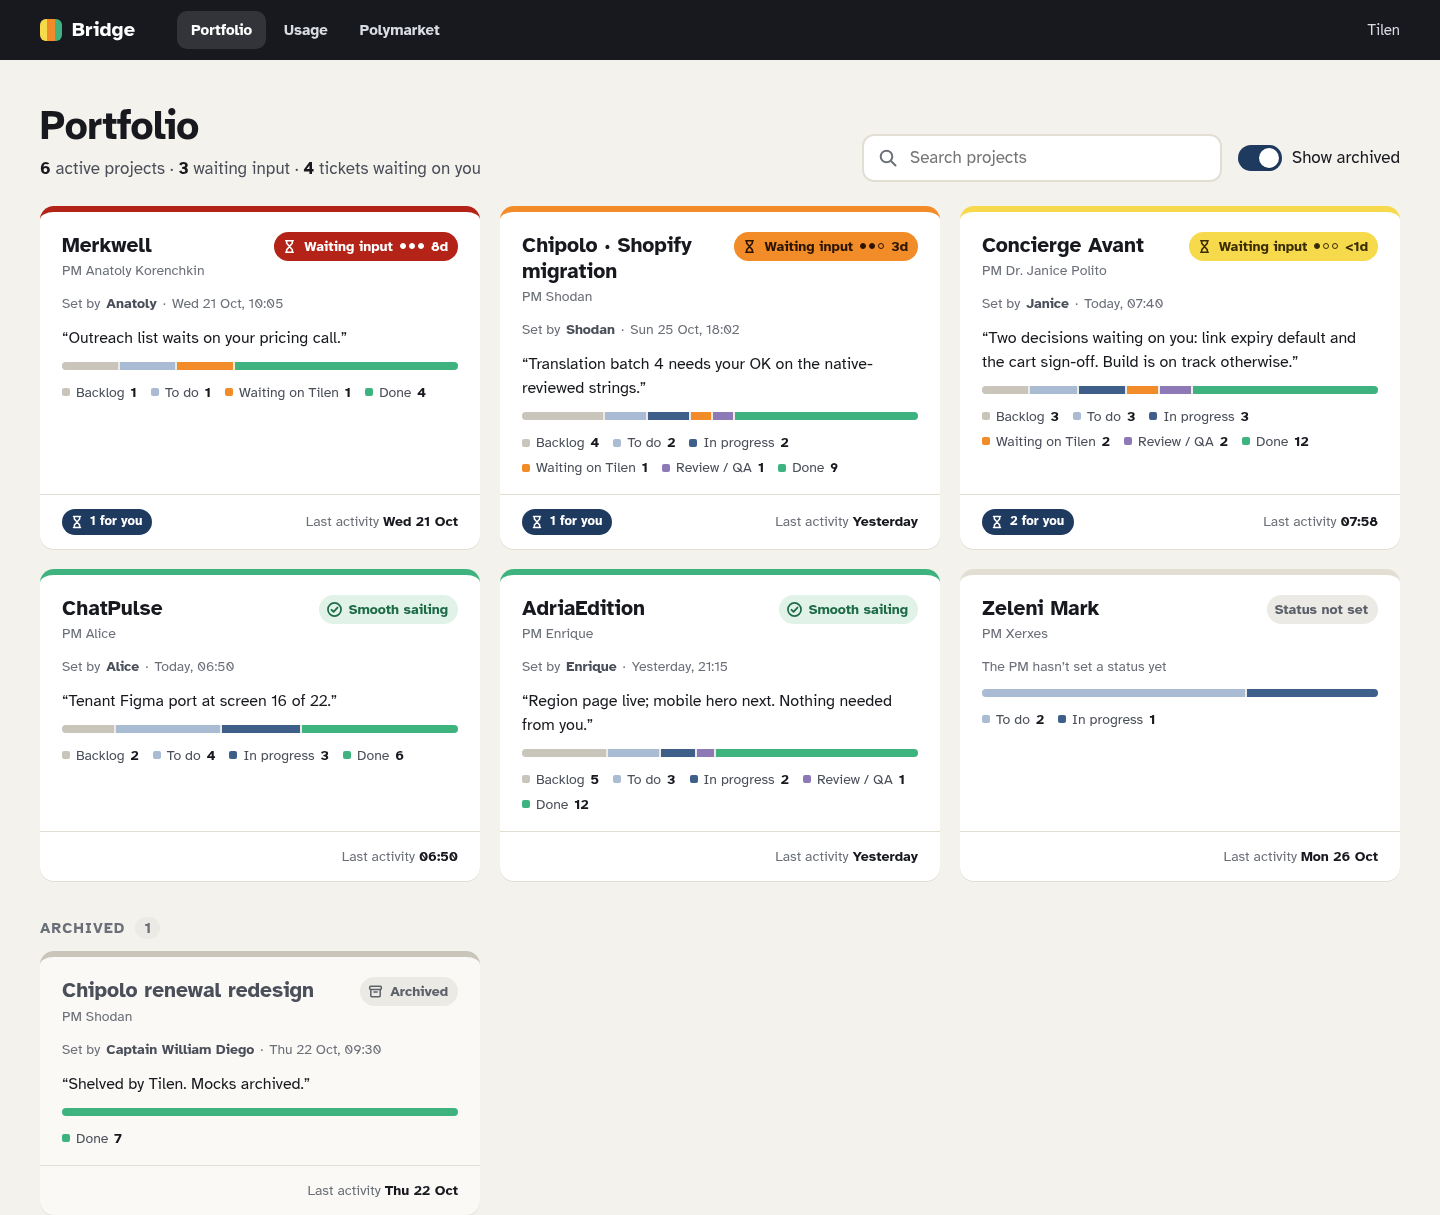
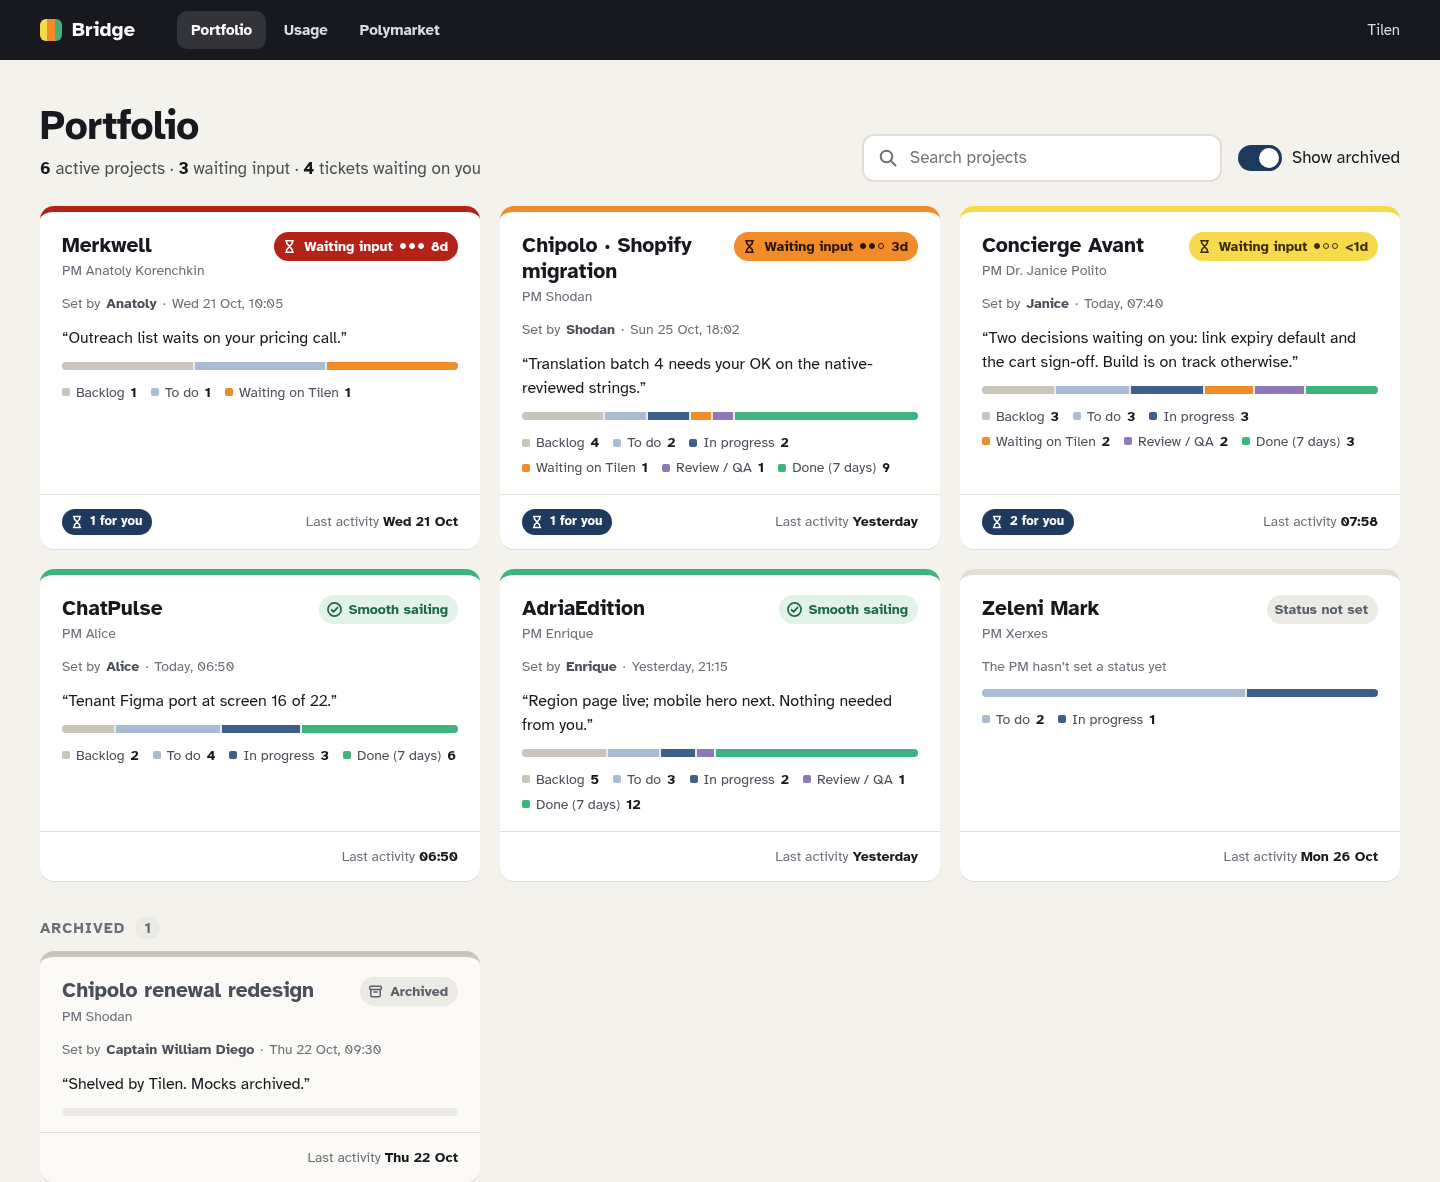
Tickets: fixed CA/MW prefixes, non-Tilen inputs to In progress; Move sheet copy, Done (7 days) counts; reshoot affected shots

diff --git a/resources/js/Components/Kanban/MoveSheet.tsx b/resources/js/Components/Kanban/MoveSheet.tsx
@@ -2,7 +2,7 @@ import { useRef, useState } from 'react';
 import { Sheet, useFocusTrap } from './Bits';
 import { WAITING, type Column, type ColumnKey, type Ticket } from '../../lib/kanban';
 
-/** Mobile "Move to" sheet (SPEC §4): six 52px rows, the current one marked, the ticket goes to the top of the target. */
+/** Mobile "Move to" sheet (SPEC §4): six 52px rows, the current one marked, the ticket goes to the top of the target (Waiting on Tilen: the end, oldest first). */
 export function MoveSheet({ t, columns, onPick, onClose }: { t: Ticket; columns: Column[]; onPick: (to: ColumnKey) => void; onClose: () => void }) {
   return (
     <Sheet label={`Move ${t.key}`} onClose={onClose}>
@@ -15,7 +15,7 @@ export function MoveSheet({ t, columns, onPick, onClose }: { t: Ticket; columns:
             <li key={c.key} aria-current={cur ? 'true' : undefined}>
               <button type="button" onClick={() => (cur ? onClose() : onPick(c.key))}>
                 <span className={`dot c-${c.key}`} aria-hidden="true" />{c.label}
-                {cur ? <span className="cur">Current</span> : c.key === WAITING ? <span className="pos">Oldest first</span> : null}
+                {cur ? <span className="cur">Current</span> : <span className="pos">{c.key === WAITING ? 'Goes to the end, sorted oldest first' : 'Top of column'}</span>}
               </button>
             </li>
           );

diff --git a/resources/js/Pages/Portfolio.tsx b/resources/js/Pages/Portfolio.tsx
@@ -10,7 +10,7 @@ import { firstName, type ColumnKey, type PortfolioProject } from '../lib/kanban'
 type Props = { projects: PortfolioProject[]; now: string };
 
 const COLS: [ColumnKey, string][] = [
-  ['backlog', 'Backlog'], ['todo', 'To do'], ['in_progress', 'In progress'], ['waiting_tilen', 'Waiting on Tilen'], ['review', 'Review / QA'], ['done', 'Done'],
+  ['backlog', 'Backlog'], ['todo', 'To do'], ['in_progress', 'In progress'], ['waiting_tilen', 'Waiting on Tilen'], ['review', 'Review / QA'], ['done', 'Done (7 days)'],
 ];
 
 function rule(p: PortfolioProject): string {

diff --git a/tests/Feature/TicketsMigrationTest.php b/tests/Feature/TicketsMigrationTest.php
@@ -22,7 +22,7 @@ class TicketsMigrationTest extends TestCase
     use RefreshDatabase;
     use TicketHelpers;
 
-    private const TOTAL = 'total: questions open 1, answered 2, inputs 2, next steps 4 → tickets 9 (waiting_tilen 6, todo 1, in_progress 2) · skipped 0';
+    private const TOTAL = 'total: questions open 1, answered 2, inputs 2, next steps 4 → tickets 9 (waiting_tilen 5, todo 1, in_progress 3) · skipped 0';
 
     private string $long;
 
@@ -77,7 +77,7 @@ class TicketsMigrationTest extends TestCase
     {
         $before = $this->legacy();
         $this->artisan('bridge:tickets-migrate --dry-run')
-            ->expectsOutputToContain('Concierge Avant ('.self::CA.'): dry run, nothing written · would be: questions open 1, answered 2, inputs 2, next steps 0 → tickets 5 (waiting_tilen 5, todo 0, in_progress 0) · skipped 0')
+            ->expectsOutputToContain('Concierge Avant ('.self::CA.'): dry run, nothing written · would be: questions open 1, answered 2, inputs 2, next steps 0 → tickets 5 (waiting_tilen 4, todo 0, in_progress 1) · skipped 0')
             ->expectsOutputToContain('total: dry run, nothing written · would be: questions open 1, answered 2, inputs 2, next steps 4 → tickets 9')
             ->assertSuccessful();
         $this->assertSame(0, Ticket::count());
@@ -136,6 +136,8 @@ class TicketsMigrationTest extends TestCase
         $this->assertStringContainsString('_Carried over from Required inputs (waiting on Tilen, since 8 Sep 2026)._', $i1->description);
         $this->assertSame('2026-09-08 15:00:00', $i1->waiting_since->format('Y-m-d H:i:s'));
         $this->assertSame(['input', 'waiting-on-other'], $this->byRow('required_input', 'in-ca-2')->labels->pluck('name')->all());
+        $i2 = $this->byRow('required_input', 'in-ca-2'); // not Tilen's: In progress, assigned to that person, no ask
+        $this->assertSame(['in_progress', 'human', 'Copywriter', null, null], [$i2->status, $i2->assignee_type, $i2->assignee_id, $i2->ask, $i2->waiting_since]);
 
         // Next steps.
         $n1 = $this->byRow('next_step', 'ns-1');
@@ -148,7 +150,7 @@ class TicketsMigrationTest extends TestCase
         $n5 = $this->byRow('next_step', 'ns-5');
         $this->assertSame(['agent', self::ANATOLY], [$n5->assignee_type, $n5->assignee_id]); // falls back to the PM
         $this->assertSame([0, 1], [$n1->position, $n5->position]);
-        $this->assertSame(['ME-1', 'ME-2', 'ME-3', 'ME-4'], Ticket::query()->where('project_id', self::MW)->orderBy('key')->pluck('key')->all());
+        $this->assertSame(['MW-1', 'MW-2', 'MW-3', 'MW-4'], Ticket::query()->where('project_id', self::MW)->orderBy('key')->pluck('key')->all());
 
         // Events: created by migration via api.
         $this->assertSame(9, TicketEvent::query()->where('type', 'created')->where('actor_id', 'migration')->where('actor_type', 'system')->where('source', 'api')->count());
@@ -181,7 +183,7 @@ class TicketsMigrationTest extends TestCase
             ->assertSuccessful();
         $this->artisan('bridge:tickets-migrate')->expectsOutputToContain('· skipped 10')->assertSuccessful();
         $this->assertSame(10, Ticket::count());
-        $this->assertSame('ME-5', $this->byRow('question', 'q-new')->key);
+        $this->assertSame('MW-5', $this->byRow('question', 'q-new')->key);
         $this->assertSame([self::ANATOLY, 'agent'], [$this->byRow('question', 'q-new')->created_by, $this->byRow('question', 'q-new')->created_by_type]);
 
         $this->artisan('bridge:tickets-migrate --project=proj-nope')->expectsOutputToContain('Unknown project id')->assertFailed();
@@ -245,5 +247,16 @@ class TicketsMigrationTest extends TestCase
 
         $t = $this->byRow('next_step', 'ns-owner');
         $this->assertSame(['agent', BridgeSeeder::AGENT_SHODAN], [$t->assignee_type, $t->assignee_id]);
+    }
+
+    public function test_input_waiting_on_an_agent_goes_to_in_progress_with_that_agent(): void
+    {
+        RequiredInput::create(['id' => 'in-janice', 'project_id' => self::CA, 'text' => 'Janice confirms the guest copy', 'waiting_on' => 'Janice', 'since' => '2026-10-20 10:00:00']);
+
+        $this->artisan('bridge:tickets-migrate', ['--project' => self::CA])->assertSuccessful();
+
+        $t = $this->byRow('required_input', 'in-janice');
+        $this->assertSame(['in_progress', 'agent', self::JANICE], [$t->status, $t->assignee_type, $t->assignee_id]);
+        $this->assertSame(['input', 'waiting-on-other'], $t->labels->pluck('name')->all());
     }
 }

diff --git a/tests/Feature/TicketsApiTest.php b/tests/Feature/TicketsApiTest.php
@@ -63,7 +63,7 @@ class TicketsApiTest extends TestCase
     public function prefixes_come_from_the_name_and_are_unique(): void
     {
         $this->assertSame('CA', Project::find(self::CA)->ticket_prefix);
-        $this->assertSame('ME', Project::find(self::MW)->ticket_prefix);
+        $this->assertSame('MW', Project::find(self::MW)->ticket_prefix); // fixed in TicketPrefix::MAP
         $this->assertSame('CA', TicketPrefix::generate('Concierge Avant'));
         $this->assertSame('CAV', TicketPrefix::generate('Concierge Avant', ['CA']));
         $this->assertSame('ME', TicketPrefix::generate('merkwell'));
@@ -71,12 +71,17 @@ class TicketsApiTest extends TestCase
         $this->assertSame('ZA', TicketPrefix::generate('Žabja Akademija'));
         $this->assertSame('P', TicketPrefix::generate('123'));
         $this->assertSame('X2', TicketPrefix::generate('X', ['X']));
+        // Captain's fixed map wins for those ids; the reserved prefixes are never generated for other projects.
+        $this->assertSame('CA', TicketPrefix::forProject('proj-concierge-avant', 'Concierge'));
+        $this->assertSame('MW', TicketPrefix::forProject('proj-merkwell', 'Merkwell'));
+        $this->assertSame('CO', TicketPrefix::forProject('proj-other', 'Concierge'));
+        $this->assertSame('CAV', TicketPrefix::forProject('proj-other', 'Concierge Avant'));
 
         // Created via the API: same generator, optional explicit prefix.
         $this->api()->postJson('/api/projects', ['name' => 'Concierge Atlas', 'slug' => 'concierge-atlas', 'owner_agent_id' => self::JANICE])
             ->assertCreated()->assertJsonPath('data.ticket_prefix', 'CAT');
-        $this->postJson('/api/projects', ['name' => 'Merkwell Two', 'slug' => 'mw2', 'owner_agent_id' => self::ANATOLY, 'ticket_prefix' => 'MW'])
-            ->assertCreated()->assertJsonPath('data.ticket_prefix', 'MW');
+        $this->postJson('/api/projects', ['name' => 'Merkwell Two', 'slug' => 'mw2', 'owner_agent_id' => self::ANATOLY, 'ticket_prefix' => 'MV'])
+            ->assertCreated()->assertJsonPath('data.ticket_prefix', 'MV');
         $this->postJson('/api/projects', ['name' => 'X', 'slug' => 'x', 'owner_agent_id' => self::ANATOLY, 'ticket_prefix' => 'MW'])
             ->assertUnprocessable()->assertJsonValidationErrors('ticket_prefix');
         // The prefix may change only before the first ticket.
@@ -102,7 +107,7 @@ class TicketsApiTest extends TestCase
         $two = $this->newTicket();
         $this->postJson("/api/tickets/{$two['key']}/archive", ['actor' => self::JANICE])->assertOk()->assertJsonPath('data.archived', true);
         $this->assertSame('CA-3', $this->newTicket()['key']);
-        $this->assertSame('ME-1', $this->newTicket([], self::MW)['key']);
+        $this->assertSame('MW-1', $this->newTicket([], self::MW)['key']);
         $this->assertSame(3, Project::find(self::CA)->ticket_seq);
 
         // POST /api/tickets with project_id is the same endpoint.
@@ -203,7 +208,7 @@ class TicketsApiTest extends TestCase
         $this->postJson("/api/tickets/{$e['key']}/archive", ['actor' => self::JANICE])->assertOk();
 
         $keys = fn (string $q) => array_column($this->getJson('/api/tickets'.$q)->assertOk()->json('data'), 'key');
-        $this->assertEqualsCanonicalizing(['CA-1', 'CA-2', 'CA-3', 'ME-1'], $keys(''));
+        $this->assertEqualsCanonicalizing(['CA-1', 'CA-2', 'CA-3', 'MW-1'], $keys(''));
         $this->assertSame(['CA-1', 'CA-2', 'CA-3'], $keys('?project_id='.self::CA));
         $this->assertSame(['CA-1', 'CA-2', 'CA-3'], array_column($this->getJson('/api/projects/'.self::CA.'/tickets')->json('data'), 'key'));
         $this->assertSame(['CA-2'], $keys('?status=in_progress'));
@@ -220,7 +225,7 @@ class TicketsApiTest extends TestCase
 
         $this->travelMinutes(60);
         $this->patchJson("/api/tickets/{$d['key']}", ['priority' => 'p2', 'actor' => self::ANATOLY])->assertOk();
-        $this->assertSame(['ME-1'], $keys('?updated_since='.urlencode(Carbon::now()->subMinute()->toIso8601String())));
+        $this->assertSame(['MW-1'], $keys('?updated_since='.urlencode(Carbon::now()->subMinute()->toIso8601String())));
         $this->assertNotEmpty([$a, $b, $c]);
     }
 

diff --git a/app/Services/Tickets/LegacyCarryOver.php b/app/Services/Tickets/LegacyCarryOver.php
@@ -122,19 +122,24 @@ final class LegacyCarryOver
 
                 continue;
             }
-            $labels = ['input'];
-            if (strcasecmp(trim((string) $i->waiting_on), 'tilen') !== 0) {
-                $labels[] = 'waiting-on-other';
-            }
+            $forTilen = strcasecmp(trim((string) $i->waiting_on), 'tilen') === 0;
+            // Only items that need Tilen go to Waiting on Tilen; inputs owned by someone else go to In progress, assigned to them.
+            $owner = $forTilen ? null : $this->matchAgent($i->waiting_on);
+            $assignee = match (true) {
+                $forTilen => $pm,
+                $owner !== null => ['assignee_type' => 'agent', 'assignee_id' => $owner],
+                filled($i->waiting_on) => ['assignee_type' => 'human', 'assignee_id' => trim((string) $i->waiting_on)],
+                default => $pm,
+            };
             $ticket = $this->create($project, [
                 'title' => self::cut($i->text, 140),
                 'description' => self::description($i->text, sprintf('_Carried over from Required inputs (waiting on %s, since %s)._', $i->waiting_on, self::date($i->since))),
-                'status' => BoardColumns::WAITING_TILEN,
-                ...$pm,
-                'ask' => self::cut($i->text, 280),
-                'labels' => $labels,
+                'status' => $forTilen ? BoardColumns::WAITING_TILEN : BoardColumns::IN_PROGRESS,
+                ...$assignee,
+                'ask' => $forTilen ? self::cut($i->text, 280) : null,
+                'labels' => $forTilen ? ['input'] : ['input', 'waiting-on-other'],
             ], [
-                'waiting_since' => $i->since,
+                'waiting_since' => $forTilen ? $i->since : null,
                 'created_at' => $i->created_at ?? $i->since,
                 'created_by' => Actor::MIGRATION,
                 'created_by_type' => 'system',

diff --git a/app/Services/ProjectStatus.php b/app/Services/ProjectStatus.php
@@ -8,6 +8,7 @@ use App\Models\RequiredInput;
 use App\Models\StatusUpdate;
 use App\Models\Ticket;
 use App\Services\Tickets\Actor;
+use App\Services\Tickets\BoardView;
 use App\Support\BoardColumns;
 use Carbon\CarbonInterface;
 use Illuminate\Support\Carbon;
@@ -131,12 +132,21 @@ class ProjectStatus
         ];
     }
 
-    /** Live (not archived) tickets per column, every column key present. @return array<string,int> */
+    /**
+     * Live (not archived) tickets per column, every column key present. Done counts only tickets done in the last
+     * BoardView::DONE_DAYS days (Tommy, 29 Oct: the card legend reads "Done (7 days)").
+     *
+     * @return array<string,int>
+     */
     public static function ticketCounts(Project $project): array
     {
+        $since = Carbon::now()->subDays(BoardView::DONE_DAYS);
         $rows = $project->relationLoaded('tickets')
-            ? $project->tickets->whereNull('archived_at')->countBy('status')->all()
+            ? $project->tickets->whereNull('archived_at')
+                ->filter(fn ($t) => $t->status !== BoardColumns::DONE || ($t->done_at !== null && $t->done_at->gte($since)))
+                ->countBy('status')->all()
             : Ticket::query()->where('project_id', $project->id)->whereNull('archived_at')
+                ->where(fn ($w) => $w->where('status', '!=', BoardColumns::DONE)->orWhere('done_at', '>=', $since))
                 ->selectRaw('status, COUNT(*) as n')->groupBy('status')->pluck('n', 'status')->all();
 
         return array_map(fn (string $k) => (int) ($rows[$k] ?? 0), array_combine(BoardColumns::keys(), BoardColumns::keys()));

diff --git a/app/Support/TicketPrefix.php b/app/Support/TicketPrefix.php
@@ -15,6 +15,35 @@ final class TicketPrefix
 
     public const PATTERN = '/^[A-Z][A-Z0-9]{0,7}$/';
 
+    /**
+     * Fixed prefixes decided by Captain (29 Oct 2026), keyed by project id. Used by the tickets migration and
+     * whenever a prefix is assigned, so these never depend on name order. Other projects keep the generated prefix.
+     *
+     * @var array<string, string>
+     */
+    public const MAP = [
+        'proj-concierge-avant' => 'CA',
+        'proj-merkwell' => 'MW',
+    ];
+
+    /**
+     * Prefix for a project: the MAP entry when set (and free), else generated from the name. Prefixes reserved in
+     * MAP for other projects are never handed out by the generator.
+     *
+     * @param  iterable<string>  $taken  prefixes already in use
+     */
+    public static function forProject(string $id, string $name, iterable $taken = []): string
+    {
+        $taken = array_map('strtoupper', is_array($taken) ? $taken : iterator_to_array($taken));
+        $mapped = self::MAP[$id] ?? null;
+        if ($mapped !== null && ! in_array($mapped, $taken, true)) {
+            return $mapped;
+        }
+        $reserved = array_values(array_diff_key(self::MAP, [$id => true]));
+
+        return self::generate($name, [...$taken, ...$reserved]);
+    }
+
     /** @param  iterable<string>  $taken  prefixes already in use */
     public static function generate(string $name, iterable $taken = []): string
     {

diff --git a/database/seeders/KanbanSampleSeeder.php b/database/seeders/KanbanSampleSeeder.php
@@ -69,7 +69,7 @@ class KanbanSampleSeeder extends Seeder
                 'Region page live; mobile hero next. Nothing needed from you.', 'agent-enrique', $this->at(-1, '21:15'), [5, 3, 2, 0, 1, 12], $this->at(-1, '21:15'));
             $this->project('proj-chatpulse', 'ChatPulse', 'chatpulse', 'CP', 'agent-alice', 'smooth',
                 'Tenant Figma port at screen 16 of 22.', 'agent-alice', $this->at(0, '06:50'), [2, 4, 3, 0, 0, 6], $this->at(0, '06:50'));
-            $this->project('proj-merkwell', 'Merkwell', 'merkwell', 'ME', 'agent-anatoly', 'waiting',
+            $this->project('proj-merkwell', 'Merkwell', 'merkwell', 'MW', 'agent-anatoly', 'waiting',
                 'Outreach list waits on your pricing call.', 'agent-anatoly', $this->at(-8, '10:05'), [1, 1, 0, 1, 0, 4], $this->at(-8, '10:05'));
             $this->project('proj-zeleni', 'Zeleni Mark', 'zeleni-mark', 'ZM', 'agent-xerxes', null, null, null, null, [0, 2, 1, 0, 0, 0], $this->at(-3, '11:00'));
             $arch = $this->project('proj-renewal', 'Chipolo renewal redesign', 'chipolo-renewal', 'CR', 'agent-shodan', 'archived',

diff --git a/tests/Feature/KanbanPagesTest.php b/tests/Feature/KanbanPagesTest.php
@@ -89,10 +89,14 @@ class KanbanPagesTest extends TestCase
         $this->newTicket(['status' => 'in_progress']);
         $gone = $this->newTicket(['status' => 'in_progress']);
         $this->postJson("/api/tickets/{$gone['key']}/archive", ['actor' => self::JANICE])->assertOk();
+        // Done counts only the last 7 days (legend "Done (7 days)").
+        $recent = $this->newTicket(['status' => 'done']);
+        $old = $this->newTicket(['status' => 'done']);
+        Ticket::query()->where('key', $old['key'])->update(['done_at' => now()->subDays(8)]);
 
         $ca = collect($this->cards())->firstWhere('id', self::CA);
         $this->assertSame(2, $ca['waitingTilenCount']);
-        $this->assertSame(['backlog' => 0, 'todo' => 0, 'in_progress' => 1, 'waiting_tilen' => 2, 'review' => 0, 'done' => 0], $ca['ticketCounts']);
+        $this->assertSame(['backlog' => 0, 'todo' => 0, 'in_progress' => 1, 'waiting_tilen' => 2, 'review' => 0, 'done' => 1], $ca['ticketCounts']);
     }
 
     #[Test]

diff --git a/app/Models/Project.php b/app/Models/Project.php
@@ -39,7 +39,7 @@ class Project extends Model
         // Every new project gets a unique ticket key prefix (same generator as the tickets migration).
         static::creating(function (Project $project) {
             if (blank($project->ticket_prefix)) {
-                $project->ticket_prefix = TicketPrefix::generate((string) $project->name, static::query()->whereNotNull('ticket_prefix')->pluck('ticket_prefix'));
+                $project->ticket_prefix = TicketPrefix::forProject((string) $project->id, (string) $project->name, static::query()->whereNotNull('ticket_prefix')->pluck('ticket_prefix'));
             }
         });
     }

diff --git a/app/Http/Controllers/PortfolioController.php b/app/Http/Controllers/PortfolioController.php
@@ -14,7 +14,7 @@ class PortfolioController extends Controller
     {
         $names = Actor::names();
         $projects = Project::query()
-            ->with(['statusUpdates', 'requiredInputs', 'questions', 'tickets' => fn ($q) => $q->select(['id', 'project_id', 'status', 'archived_at'])])
+            ->with(['statusUpdates', 'requiredInputs', 'questions', 'tickets' => fn ($q) => $q->select(['id', 'project_id', 'status', 'done_at', 'archived_at'])])
             ->get()
             ->map(fn ($p) => ProjectStatus::summary($p, null, $names))
             ->sort(self::order(...))

diff --git a/app/Services/Tickets/TicketService.php b/app/Services/Tickets/TicketService.php
@@ -127,7 +127,7 @@ final class TicketService
         $locked = Project::query()->whereKey($project->id)->lockForUpdate()->firstOrFail();
         $prefix = $locked->ticket_prefix;
         if (blank($prefix)) {
-            $prefix = TicketPrefix::generate($locked->name, Project::query()->whereNotNull('ticket_prefix')->pluck('ticket_prefix'));
+            $prefix = TicketPrefix::forProject((string) $locked->id, (string) $locked->name, Project::query()->whereNotNull('ticket_prefix')->pluck('ticket_prefix'));
         }
         $seq = (int) $locked->ticket_seq;
         do {
